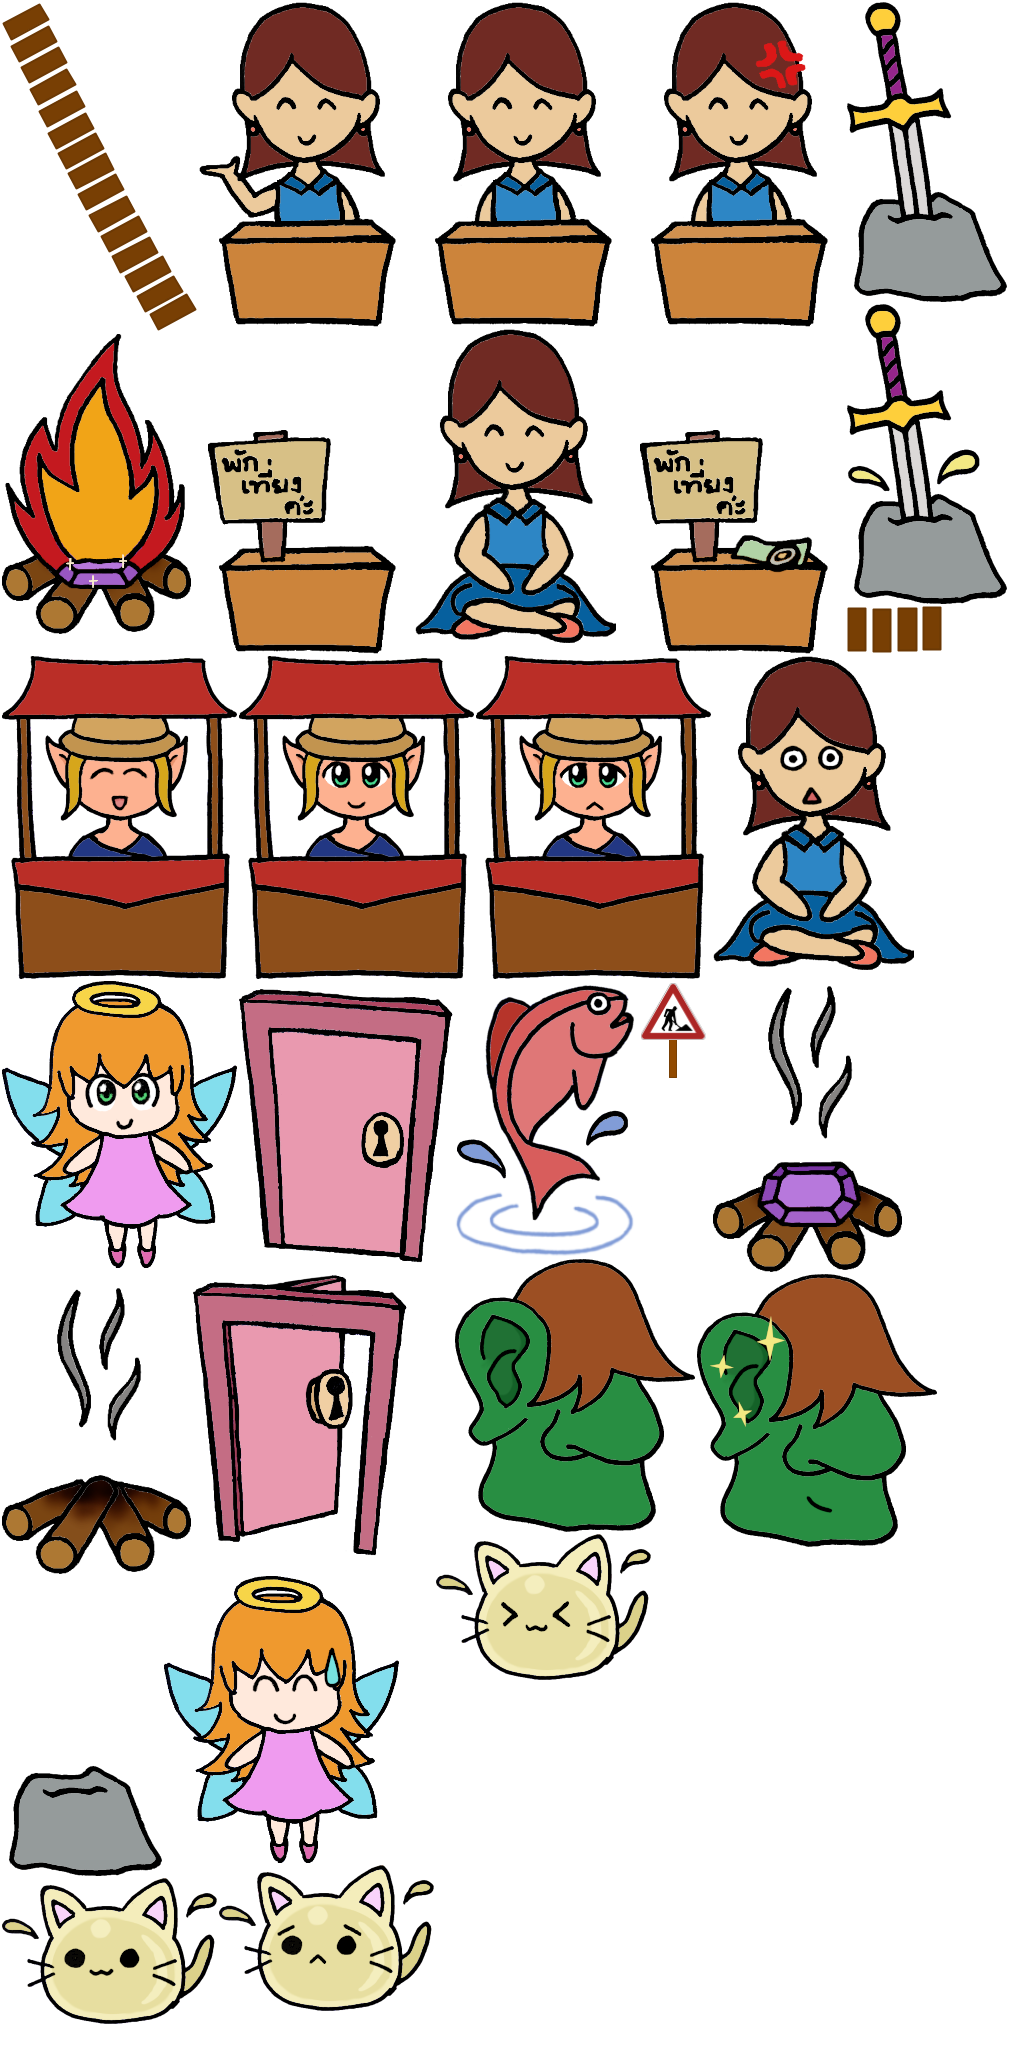
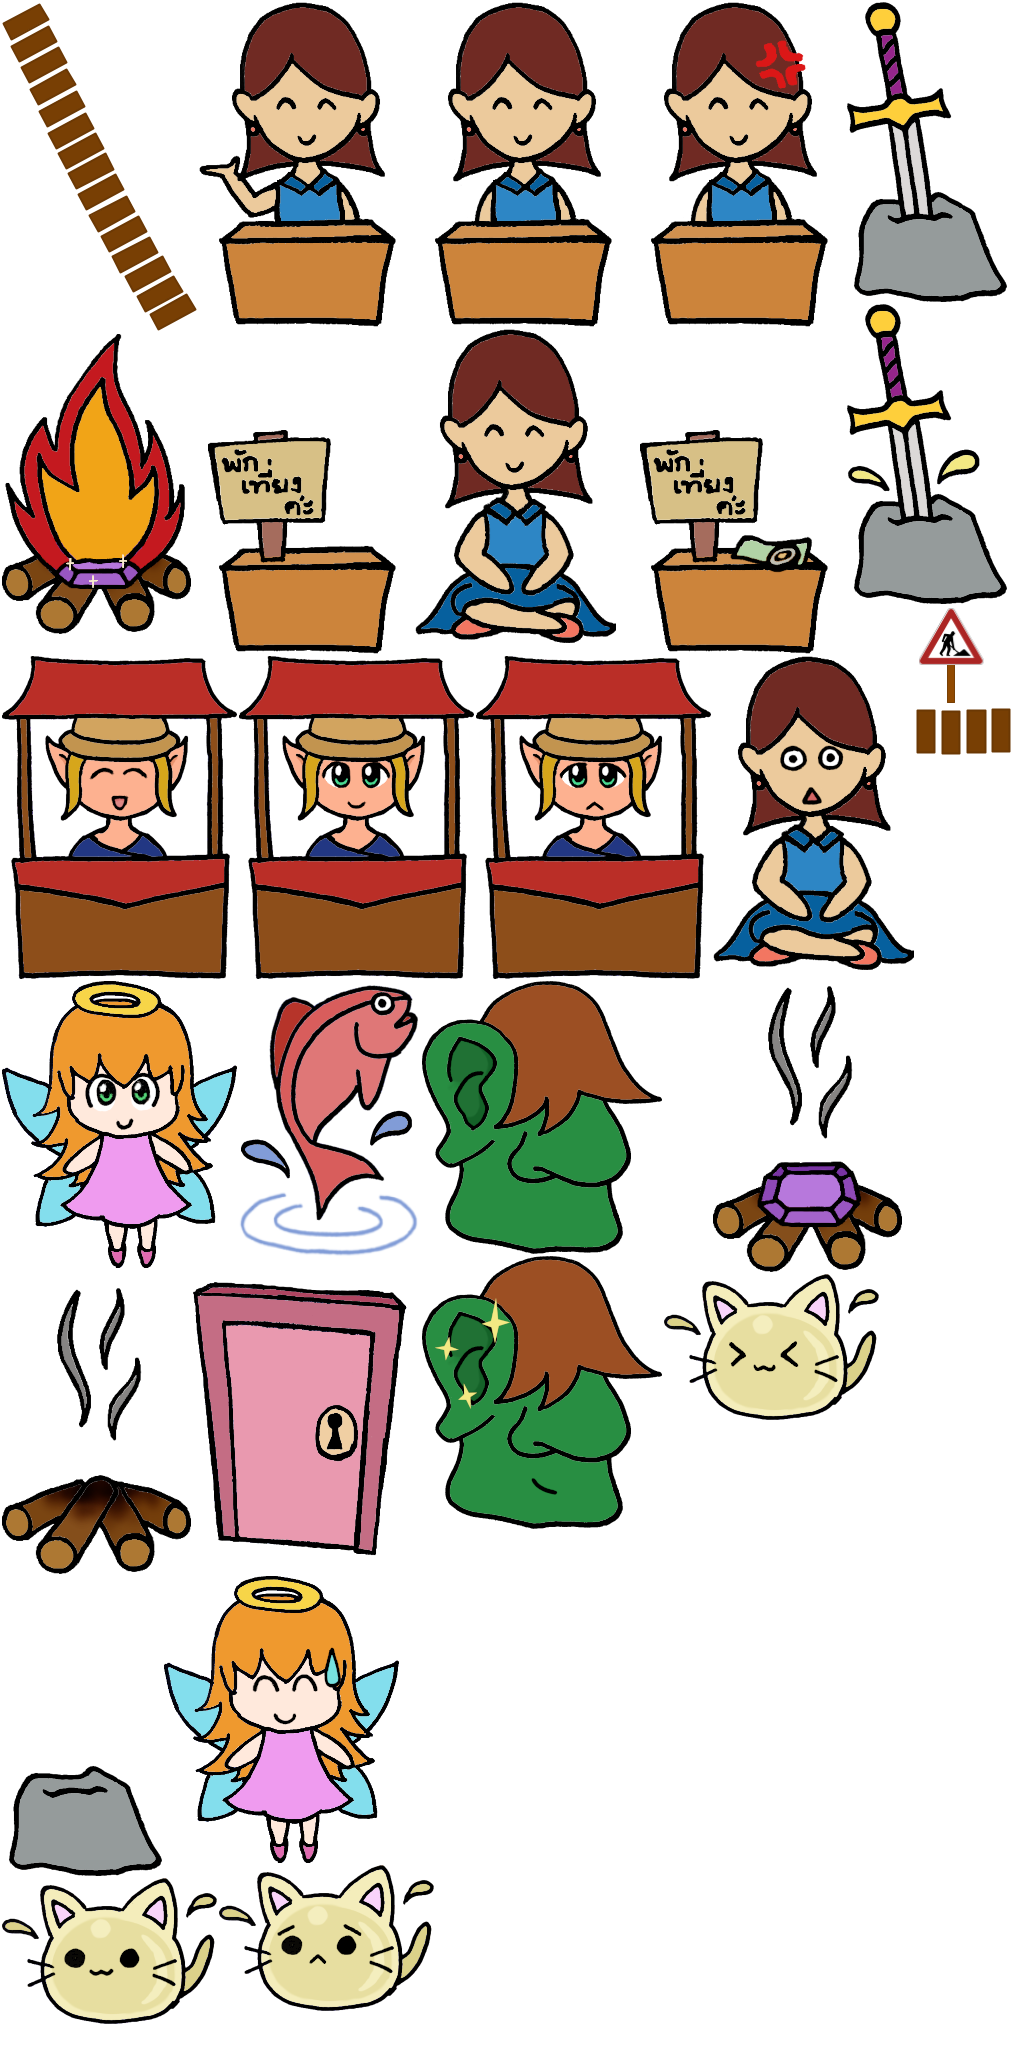
Moved sprites around

Changed region(s): [[0.2188, 0.4688, 0.9062, 0.8438], [0.8125, 0.2812, 1.0, 0.375]]

diff --git a/data.js b/data.js
@@ -107,7 +107,7 @@ const [MAP_DATA, NPC_DATA] = function () {
     name: 'ประตู',
     actionText: 'งั้นเดินอ้อม',
     itemText: USE,
-    mapStates: {'doorOpen': 'map-door-1'},
+    mapStates: {'doorOpen': 'gone'},
     content: function (op, flags, utils) {
       switch (op) {
         case 'enter':
@@ -129,9 +129,10 @@ const [MAP_DATA, NPC_DATA] = function () {
           utils.refreshNpcOnMap('noBridgeB');
           utils.refreshNpcOnMap('bridgeB');
           utils.showArrows();
-          return R(1, false, false, [
+          return R(999, false, false, [
             'คุณใช้กุญแจเปิดประตู',
-            'คุณสามารถเดินผ่านได้แล้ว']);
+            'แล้วประตูก็หายไป!',
+            '<i>เพราะไอซ์ขี้เกียจวาด</i>']);
         default:
           let line1 = (
             op === 'money' ? 'คุณพยายามติดสินบนประตู' :
@@ -402,7 +403,7 @@ const [MAP_DATA, NPC_DATA] = function () {
     name: 'กองไฟ',
     actionText: 'แหย่มือ',
     itemText: USE,
-    mapStates: {'fireIced': 'map-fire-2'},
+    mapStates: {'fireIced': 'map-fire-1', 'gemPicked': 'map-fire-2'},
     content: function (op, flags, utils) {
       switch (op) {
         case 'enter':
@@ -427,6 +428,7 @@ const [MAP_DATA, NPC_DATA] = function () {
           } else {
             utils.addItem('gem');
             flags.gemPicked = true;
+            utils.refreshNpcOnMap('fire');
             return R(2, false, false, [
               'คุณเก็บอัญมณีขึ้นมา']);
           }
@@ -505,6 +507,7 @@ const [MAP_DATA, NPC_DATA] = function () {
           } else {
             utils.addItem('money');
             flags.moneyStolen = true;
+            utils.refreshNpcOnMap('receptionist');
             return R(4, false, false, [
               'คุณ <b>"ยืม"</b> เงิน 30 บาท จากโต๊ะ']);
           }
@@ -749,7 +752,7 @@ const [MAP_DATA, NPC_DATA] = function () {
     name: 'ศิลา',
     actionText: 'ดึงดาบ',
     itemText: USE,
-    mapStates: {'swordPulled': 'pulled'},
+    mapStates: {'swordPulled': 'map-stone-2'},
     content: function (op, flags, utils) {
       switch (op) {
         case 'enter':

diff --git a/img/sheet.css b/img/sheet.css
@@ -3,7 +3,7 @@
   width: 195px; height: 330px;
 }
 .npc-bridgeC-0, .map-bridgeC > .msp {
-  background-position: -847px -606px;
+  background-position: -916px -708px;
   width: 95px; height: 47px;
 }
 .npc-cat-0, .map-cat > .msp {
@@ -15,18 +15,14 @@
   width: 215px; height: 146px;
 }
 .npc-cat-2, .map-cat.map-cat-2 > .msp {
-  background-position: -436px -1534px;
+  background-position: -664px -1274px;
   width: 215px; height: 146px;
 }
 .npc-construction-0, .map-construction > .msp {
-  background-position: -638px -981px;
+  background-position: -916px -606px;
   width: 70px; height: 100px;
 }
 .npc-door-0, .map-door > .msp {
-  background-position: -239px -981px;
-  width: 214px; height: 282px;
-}
-.npc-door-1, .map-door.map-door-1 > .msp {
   background-position: -193px -1274px;
   width: 214px; height: 282px;
 }
@@ -51,15 +47,15 @@
   width: 189px; height: 300px;
 }
 .npc-fish-0, .map-fish > .msp {
-  background-position: -455px -981px;
+  background-position: -239px -981px;
   width: 181px; height: 276px;
 }
 .npc-midboss-0, .map-midboss > .msp {
-  background-position: -455px -1259px;
+  background-position: -422px -981px;
   width: 240px; height: 273px;
 }
 .npc-midboss-1, .map-midboss.map-midboss-1 > .msp {
-  background-position: -697px -1274px;
+  background-position: -422px -1256px;
   width: 240px; height: 273px;
 }
 .npc-receptionist-0, .map-receptionist > .msp {

diff --git a/npc.css b/npc.css
@@ -34,7 +34,7 @@
   left: 212px;
 }
 .map-pond > .msp {
-  transform: scale(0.4);
+  transform: scale(0.35);
 }
 
 .map-cat {
@@ -46,11 +46,11 @@
 }
 
 .map-shop {
-  top: 821px;
-  left: 1147px;
+  top: 820px;
+  left: 1140px;
 }
 .map-shop > .msp {
-  transform: scale(0.5);
+  transform: scale(0.55);
 }
 
 .map-noBridgeB {
@@ -87,11 +87,11 @@
 }
 
 .map-fire {
-  top: 326px;
+  top: 305px;
   left: 200px;
 }
 .map-fire > .msp {
-  transform: scale(0.4);
+  transform: scale(0.5);
 }
 
 .map-receptionist {
@@ -106,30 +106,56 @@
   top: 712px;
   left: 410px; 
 }
+.map-nurse > .msp {
+  transform: scale(0.5);
+}
 
 .map-blacksmith {
   top: 712px;
   left: 1370px; 
 }
+.map-blacksmith > .msp {
+  transform: scale(0.5);
+}
+
 .map-restceptionist {
-  top: 416px;
-  left: 1850px;
+  top: 316px;
+  left: 1800px;
 }
+.map-restceptionist > .msp {
+  transform: scale(0.5);
+}
+
 .map-lake {
-  top: 100px;
-  left: 1280px;
+  top: 40px;
+  left: 1250px;
 }
+.map-lake > .msp {
+  transform: scale(0.35);
+}
+
 .map-stone {
   top: 1480px;
   left: 1210px;
 }
+.map-stone > .msp {
+  transform: scale(0.5);
+}
+
 .map-shackle {
   top: 1480px;
   left: 1530px; 
 }
+.map-shackle > .msp {
+  transform: scale(0.5);
+}
+
 .map-boss {
   top: 1480px;
   left: 1850px;
+}
+.map-boss > .msp {
+  transform: scale(0.5);
 }
 
 /* ################################ */
